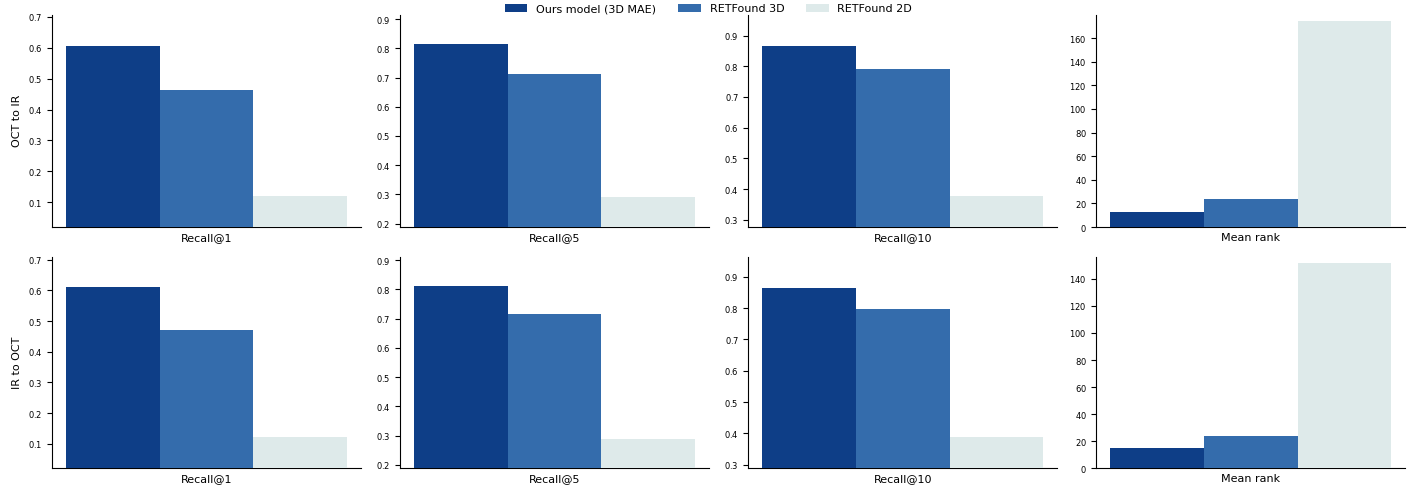
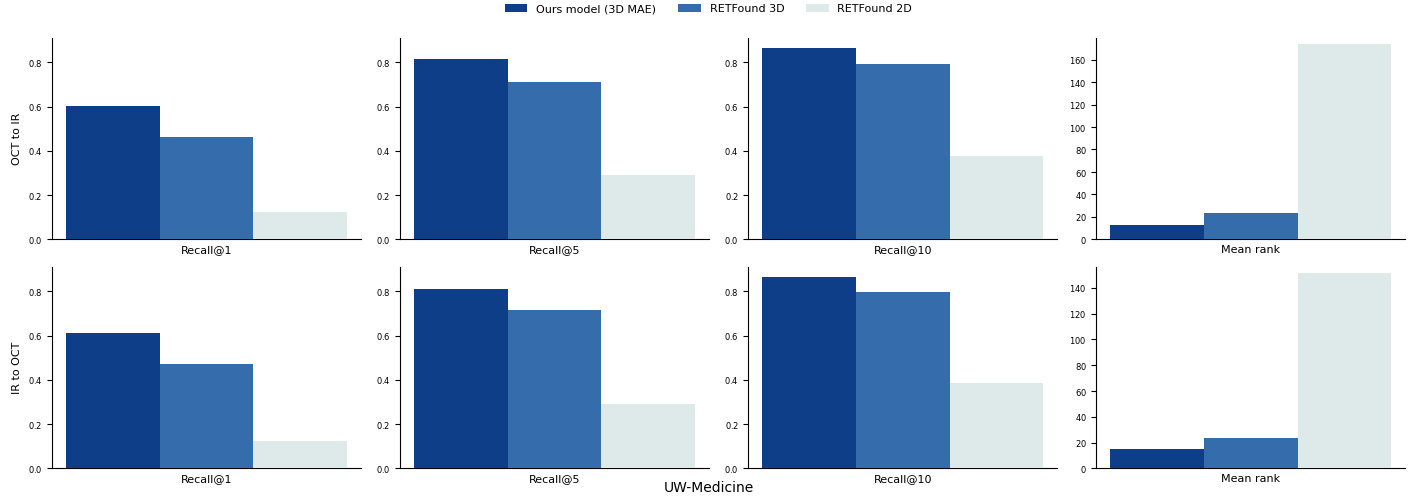
update aireadi_retrieval

diff --git a/retclip_plot_aireadi.py b/retclip_plot_aireadi.py
@@ -12,7 +12,7 @@ from scipy.stats import ttest_rel, ttest_ind
 
 this_file_dir = '/home/zucksliu/retfound_baseline/'
 save_file_dir = os.path.dirname(os.path.abspath(__file__))
-retclip_exp_res = os.path.join(save_file_dir, 'retClip_exp_res.csv')
+retclip_exp_res = os.path.join(save_file_dir, 'retClip_exp_res_aireadi.csv')
 retclip_exp_res_df = pd.read_csv(retclip_exp_res)
 print(retclip_exp_res_df)
 
@@ -43,7 +43,7 @@ def plot_retclip_recall_and_mean_rank(axes, retclip_exp_res_df, prefix, col_name
         for j in range(len(plot_method)):
             method = plot_method[::-1][j]
             method_label = PLOT_METHODS_NAME[method]
-            handle = ax.bar((j + 1)*width, y[j], width, label=method_label, color=COLORS[method], zorder=3,)
+            handle = ax.bar((j + 1)*width, y[j]+0.05, width, label=method_label, color=COLORS[method], zorder=3, bottom=-0.05)
             if i == 0:
                 all_handles.append(handle)
                 all_labels.append(method_label)
@@ -52,15 +52,14 @@ def plot_retclip_recall_and_mean_rank(axes, retclip_exp_res_df, prefix, col_name
         ax.set_xlabel(capitalize_first_letter(col_name), fontsize=8)
         if i == 0:
             ax.set_ylabel(prefix.replace('_', ' '), fontsize=8)
-        y_max = np.max(y)
-        y_max = max(0.9, y_max)
+        # y_max = np.max(y)
+        y_max = max(1, np.max(y)) 
         y_min = np.min(y)
-        y_min = min(0.1, y_min)
         print('y_max', y_max, 'y_min', y_min)
         if col_name == 'mean rank':
             ax.set_ylim(0, y_max + 5)
         else:
-            ax.set_ylim(floor_to_nearest(y_min, 0.004) - 0.1, y_max + 0.01)
+            ax.set_ylim(-0.01, y_max + 0.01)
         format_ax(ax)
     return all_handles, all_labels
 
@@ -78,10 +77,10 @@ def plot_retclip_exp_res(retclip_exp_res_df):
     all_handles, all_labels = plot_retclip_recall_and_mean_rank(ax[0, :], retclip_exp_res_df, first_row_prefix, col_names)
     plot_retclip_recall_and_mean_rank(ax[1, :], retclip_exp_res_df, second_row_prefix, col_names)
     fig.legend(all_handles, all_labels, loc='upper center', bbox_to_anchor=(0.5, 1.012), ncol=3, fontsize=8, frameon=False)
-    fig.suptitle('UW-Medicine', fontsize=10, y=0.03)
+    fig.suptitle('AI-READI', fontsize=10, y=0.03)
     fig.tight_layout()
-    plt.savefig(os.path.join(save_file_dir, 'save_figs', 'retClip_exp_res.png'))
-    plt.savefig(os.path.join(save_file_dir, 'save_figs', 'retClip_exp_res.pdf'), dpi=300)
+    plt.savefig(os.path.join(save_file_dir, 'save_figs', 'retClip_exp_res_aireadi.png'))
+    plt.savefig(os.path.join(save_file_dir, 'save_figs', 'retClip_exp_res_aireadi.pdf'), dpi=300)
     # Draw bar plot for each metric
     
 plot_retclip_exp_res(retclip_exp_res_df)
